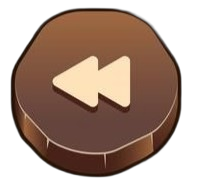
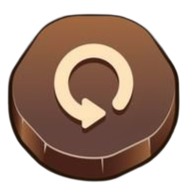
update_undo

diff --git a/Chess/GameBar.cpp b/Chess/GameBar.cpp
@@ -4,6 +4,8 @@ GameBar* GameBar::instance = NULL;
 Troop GameBar::turn = Troop::White;
 Text GameBar::turnText;
 Sprite GameBar::undoBut;
+Text GameBar::save;
+Text GameBar::reset;
 GameBar::GameBar() {
 	
 };
@@ -53,17 +55,24 @@ void GameBar::showGameBar(RenderWindow& window) {
 	turnText.setPosition(bg.getPosition().x + 0.5 * textureBG.getSize().x * bg.getScale().x - 80, 0.15 * window.getSize().y);
 	window.draw(turnText);
 
+	// save
+	save.setFont(turrnFont);
+	save.setString("Save");
+	save.setCharacterSize(turnSize * 0.6);
+	save.setFillColor(Color::Black);
+	save.setPosition(bg.getPosition().x + 0.5 * textureBG.getSize().x * bg.getScale().x - 50, 0.15 * window.getSize().y + 100);
+	window.draw(save);
+	// reset
+
 	float butScale = 0.3;
 	// Undo button
 	Texture undoTexture;
 	undoTexture.loadFromFile("Image/undoBut.png");
 	undoTexture.setSmooth(true);
 	undoBut.setTexture(undoTexture);
-	undoBut.setPosition(turnText.getPosition().x, turnText.getPosition().y + 100);
+	undoBut.setPosition(turnText.getPosition().x - 10, turnText.getPosition().y + 300);
 	undoBut.setScale(butScale, butScale);
 	window.draw(undoBut);
-
-	
 
 
 }

diff --git a/Chess/GameScreen.cpp b/Chess/GameScreen.cpp
@@ -23,6 +23,7 @@ void GameScreen::chessPos(RenderWindow& window)
 	obj.setRelaPos(window.getPosition());
 }
 void GameScreen::run(RenderWindow& window, Screen*& screen, bool& end) {
+	int canUndo = 0;
 	this->drawGameScreen(window);
 	Position curPos;
 	Position prePos;
@@ -104,6 +105,7 @@ void GameScreen::run(RenderWindow& window, Screen*& screen, bool& end) {
 						GameBar::updateTurn();
 						this->drawGameScreen(window);
 						this->game->switchTurn();
+						canUndo += 1;
 					}
 
 					// neu chon vao vi tri khong hop le, ta tro ve trang thai NotSelected
@@ -112,6 +114,15 @@ void GameScreen::run(RenderWindow& window, Screen*& screen, bool& end) {
 						this->render->setState(State::NotSelected);
 						this->drawGameScreen(window);
 					}
+				}
+				if (GameBar::undoBut.getGlobalBounds().contains(Vector2f(mousePosition))) {
+					if (canUndo != 0) {
+						game->undo();
+						GameBar::updateTurn();
+						this->drawGameScreen(window);
+						canUndo -= 1;
+					}
+
 				}
 			}
 		}

diff --git a/Chess/GameBar.h b/Chess/GameBar.h
@@ -6,12 +6,14 @@ using namespace sf;
 
 class GameBar {
 private:
-	static Troop turn; 
 	static GameBar* instance;
-	static Sprite undoBut;
-	static Text turnText;
 	GameBar();
 public:
+	static Troop turn; 
+	static Sprite undoBut;
+	static Text turnText;
+	static Text save;
+	static Text reset;
 	static void updateTurn();
 	static GameBar* getInstance();
 	static void deleteInstance();
